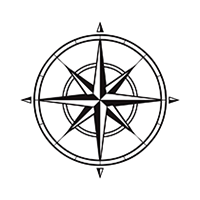
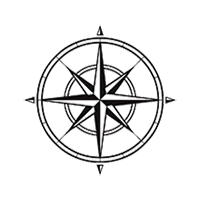
Kompass-ting

Changed region(s): [[0.09, 0.09, 0.9, 0.9], [0.66, 0.66, 0.69, 0.69]]

diff --git a/partials/views/info/skredvarsel.html b/partials/views/info/skredvarsel.html
@@ -4,6 +4,7 @@
         <p class="lead">
             I skredvarselet finner du viktig informasjon om den generelle skredfaren i området.
             <span ng-bind="infoVarslingsOmrade"></span>
+            Fyll inn informasjonen du finner i eksempelvarselet til høyre.
         </p>
     </div>
     <div class="span5"><a class="nve-btn arrow-right" target="nveSkredskoleVindu" ng-href="{{skredvarselLink}}">Skredvarslet finner du på Varsom.no</a></div>
@@ -67,48 +68,7 @@
 
     <div class="span3">
         <h5>Utsatte himmelretninger</h5>
-        <div class="skredkoleCompassBG">
-        <svg height="200" width="200" style="fill:white;stroke:#ccc;stroke-width:1" class="skredskoleCompass">
-            <polygon points="100,100 138,8 62,8"
-                     ng-click="info.skredvarsel.svar.n = !info.skredvarsel.svar.n"
-                     ng-class="{selected: info.skredvarsel.svar.n}" />
-
-            <polygon points="100,100 192,62 138,8"
-                     ng-click="info.skredvarsel.svar.no = !info.skredvarsel.svar.no"
-                     ng-class="{selected: info.skredvarsel.svar.no}"/>
-
-            <polygon points="100,100 192,138 192,62"
-                     ng-click="info.skredvarsel.svar.o = !info.skredvarsel.svar.o"
-                     ng-class="{selected: info.skredvarsel.svar.o}"/>
-
-            <polygon points="100,100 138,192 192,138"
-                     ng-click="info.skredvarsel.svar.so = !info.skredvarsel.svar.so"
-                     ng-class="{selected: info.skredvarsel.svar.so}"/>
-
-            <polygon points="100,100 62,192 138,192"
-                     ng-click="info.skredvarsel.svar.s = !info.skredvarsel.svar.s"
-                     ng-class="{selected: info.skredvarsel.svar.s}"/>
-
-            <polygon points="100,100 8,138 62,192"
-                     ng-click="info.skredvarsel.svar.sv = !info.skredvarsel.svar.sv"
-                     ng-class="{selected: info.skredvarsel.svar.sv}"/>
-
-            <polygon points="100,100 8,62 8,138"
-                     ng-click="info.skredvarsel.svar.v = !info.skredvarsel.svar.v"
-                     ng-class="{selected: info.skredvarsel.svar.v}"/>
-
-            <polygon points="100,100 62,8 8,62"
-                     ng-click="info.skredvarsel.svar.nv = !info.skredvarsel.svar.nv"
-                     ng-class="{selected: info.skredvarsel.svar.nv}"/>
-
-            <g font-size="12" fill="#000" stroke="none" text-anchor="middle">
-                <text x="100" y="20">N</text>
-                <text x="185" y="105">Ø</text>
-                <text x="100" y="190">S</text>
-                <text x="15" y="105">V</text>
-            </g>
-        </svg>
-        </div>
+        <div nve-compass="info.skredvarsel.svar"></div>
 
     </div>
     <div class="span3">

diff --git a/partials/directives/nveCompass.html b/partials/directives/nveCompass.html
@@ -1,0 +1,42 @@
+<div class="skredkoleCompassBG">
+    <svg height="200" width="200" style="fill:white;stroke:#ccc;stroke-width:1" class="skredskoleCompass">
+        <polygon points="100,100 138,8 62,8"
+                 ng-click="nveCompass.n = !nveCompass.n"
+                 ng-class="{selected: nveCompass.n}" />
+
+        <polygon points="100,100 192,62 138,8"
+                 ng-click="nveCompass.no = !nveCompass.no"
+                 ng-class="{selected: nveCompass.no}"/>
+
+        <polygon points="100,100 192,138 192,62"
+                 ng-click="nveCompass.o = !nveCompass.o"
+                 ng-class="{selected: nveCompass.o}"/>
+
+        <polygon points="100,100 138,192 192,138"
+                 ng-click="nveCompass.so = !nveCompass.so"
+                 ng-class="{selected: nveCompass.so}"/>
+
+        <polygon points="100,100 62,192 138,192"
+                 ng-click="nveCompass.s = !nveCompass.s"
+                 ng-class="{selected: nveCompass.s}"/>
+
+        <polygon points="100,100 8,138 62,192"
+                 ng-click="nveCompass.sv = !nveCompass.sv"
+                 ng-class="{selected: nveCompass.sv}"/>
+
+        <polygon points="100,100 8,62 8,138"
+                 ng-click="nveCompass.v = !nveCompass.v"
+                 ng-class="{selected: nveCompass.v}"/>
+
+        <polygon points="100,100 62,8 8,62"
+                 ng-click="nveCompass.nv = !nveCompass.nv"
+                 ng-class="{selected: nveCompass.nv}"/>
+
+        <g font-size="12" fill="#000" stroke="none" text-anchor="middle">
+            <text x="100" y="20">N</text>
+            <text x="185" y="105">Ø</text>
+            <text x="100" y="190">S</text>
+            <text x="15" y="105">V</text>
+        </g>
+    </svg>
+</div>

diff --git a/partials/views/start.html b/partials/views/start.html
@@ -1,9 +1,9 @@
 <div class="hero-unit ">
   <h1>Skredskolen</h1>
-  <p class="lead">Interaktiv turplanlegging for {{turTittel}}. <br>
-  Dette verktøyet gir deg muligheten til å planlegge turen før du skal ut i fjellet.</p>
-  <p>Når du har fylt inn all nødvendig informasjon kan du printe ut et planleggingsskjema som du kan ta med på turen.
-  For å gå gjennom turplanleggingen skritt for skritt, trykk på "neste" for å gå videre. </p>
+  <p class="lead">Prøv deg på turplanlegging for {{turTittel}}. <br>
+  Dette verktøyet gir deg muligheten til å planlegge en tur før du skal ut i fjellet.</p>
+  <p>Når du har fylt inn all nødvendig informasjon kan du printe ut et planleggingsskjema som du kan benytte senere.
+  For å gå gjennom turplanleggingen skritt for skritt, trykker du på pilene nederst på siden.</p>
   <p>Alternativt kan du utføre de forskjellige stegene i 
     valgfri rekkefølge ved å bruke navigasjonen på toppen av siden.
   </p>

diff --git a/controllers/info/skredvarsel.controller.js b/controllers/info/skredvarsel.controller.js
@@ -4,11 +4,12 @@ myapp.controller("infoSkredvarselCtrl", function($scope, sjekkFasit, korrekteSva
 
     $scope.visAntallKorrekteSvar =  function() {
         korrekteSvar({
+            "Hva er varslet faregrad?": ['faregrad'],
+            "Hva slags type skredproblem kan man møte?": ['skredproblem'],
             "Hva er mest utsatt himmelretning?": ['n','no','o','so','s','sv','v','nv'],
             "Hvordan er snødekket?": ['nySno','vindtransportertSno','svakeLagISnopakken','vatOgVannmettetSno'],
             "Hva er de mest utsatte områdene?": ['bratteHeng','omraderNaerRygger','terrengFeller','overgangFraLiteTilMyeSno'],
             "Hva er mest utsatt høydenivå?": ['hoydeniva'],
-            "Hva er varslet faregrad?": ['faregrad'],
             "Hva er varslet sannsynlighet for skred?": ['sannsynlighet'],
             "Hva er varslet skredstørrelse?": ['skredstorrelse'],
             "Hva er varslet tilleggsbelastning?": ['tilleggsbelastning']

diff --git a/partials/views/kritiske-omrader/egenskaper.html b/partials/views/kritiske-omrader/egenskaper.html
@@ -34,12 +34,7 @@
       <input type="number" ng-model="kritiskeOmrader.egenskaper.svar['hoyde' + index]">
       
       <h4>Himmelretning</h4>
-      <ul class="inline">
-        <li ng-repeat="item in himmelRetningerLabels">
-          <label class="checkbox">
-            <input type="checkbox" ng-model="kritiskeOmrader.egenskaper.svar[item.key + index]">{{item.title}}</label>
-        </li>
-      </ul>
+      <div nve-compass="kritiskeOmrader.egenskaper.svar"></div>
       <ul class="unstyled">
         <li ng-repeat="item in utsatteOmraderLabels">
           <label class="checkbox">

diff --git a/turer/kyrkjebonosi.js b/turer/kyrkjebonosi.js
@@ -2,6 +2,7 @@ myapp.config(function (InfoProvider, UtstyrProvider, RuteProvider, KritiskeOmrad
     InfoProvider.setFasit({
         skredvarsel: {
             faregrad: 2,
+            skredproblem: 'torreFlakskred',
             skredstorrelse: 3,  //2:små 3:middels 4:store 5:svært store
             sannsynlighet: 3,  //2:lite sannsynlig 3:mulig 4:sannsynlig 5:svært sannsynlig
             tilleggsbelastning: 'liten',

diff --git a/services/services.js b/services/services.js
@@ -147,6 +147,7 @@ myapp.provider('Info', function () {
     var fasit = {
         skredvarsel: {
             faregrad: undefined,
+            skredproblem: undefined,
             tilleggsbelastning: undefined,
             skredstorrelse: undefined,  //2:små 3:middels 4:store 5:svært store
             sannsynlighet: undefined,  //2:lite sannsynlig 3:mulig 4:sannsynlig 5:svært sannsynlig

diff --git a/css/skredskole.css b/css/skredskole.css
@@ -28,18 +28,3 @@
     fill:#fff;
 }
 
-/* Varsom.no bokser */
-div.labels:hover {
-    cursor:pointer;
-    color:black;
-}
-div.labels.activelabel:hover {
-    color:white;
-}
-
-/* Bootstrap tilpasning */
-.btn-group.btn-group-vertical button {
-    padding-left: 20px;
-    padding-right: 20px;
-    width: 190px;
-}

diff --git a/directives/nveSubMenuItem.js b/directives/nveSubMenuItem.js
@@ -35,4 +35,12 @@ myapp.directive('nveSubMenuItem', function() {
             }
         }
     };
+})
+.directive('nveCompass', function() {
+    return {
+        scope: {
+            nveCompass: '='
+        },
+        templateUrl: 'partials/directives/nveCompass.html'
+    };
 });
